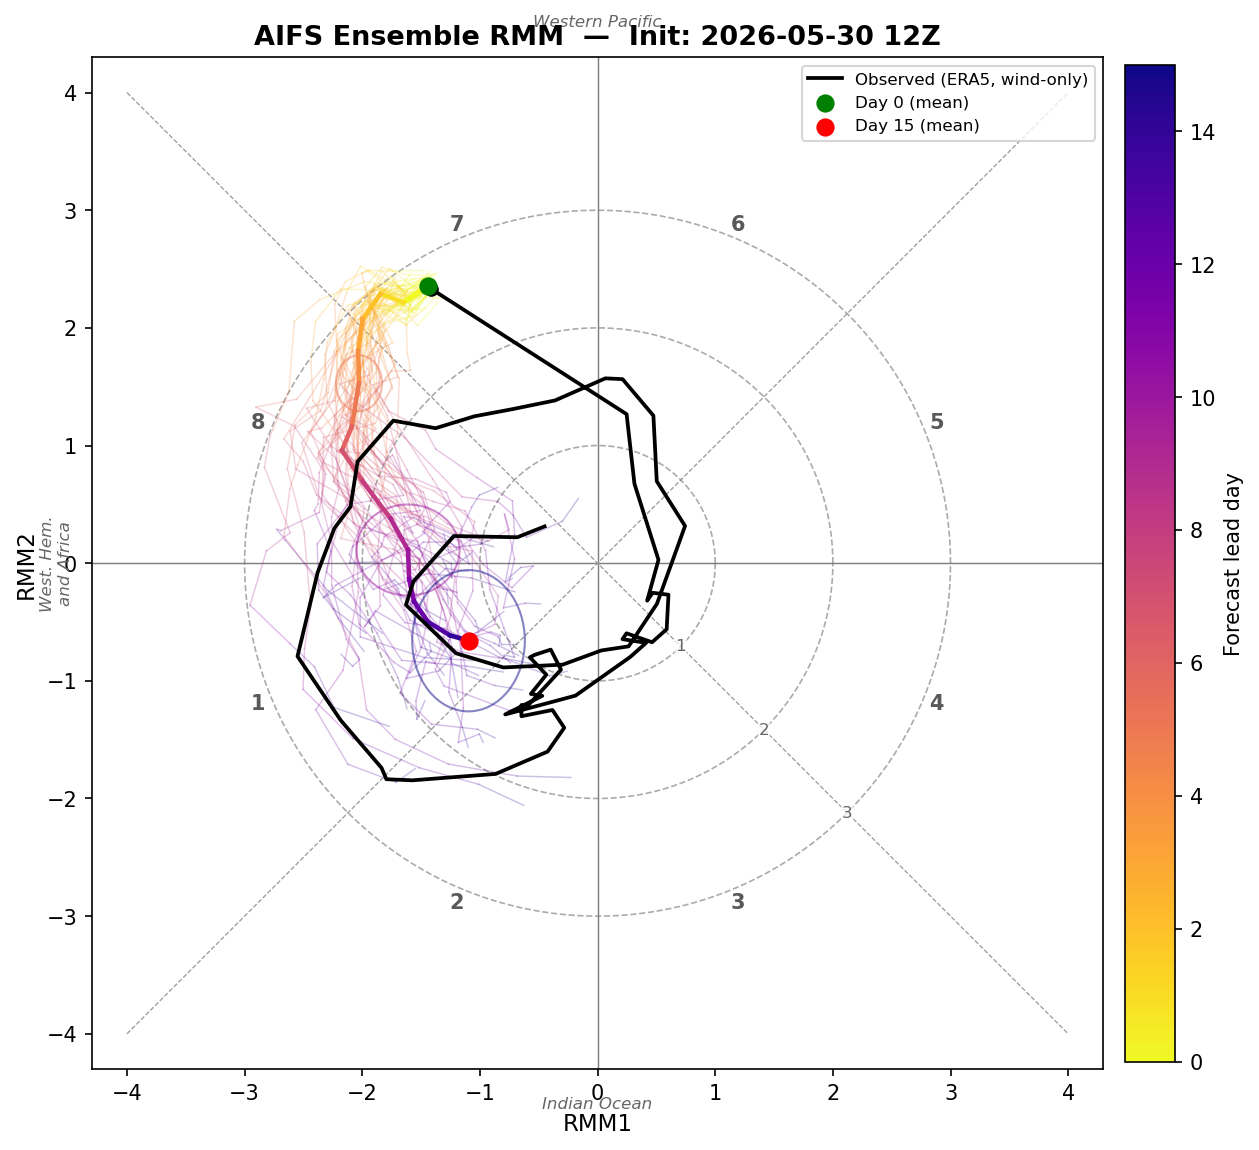
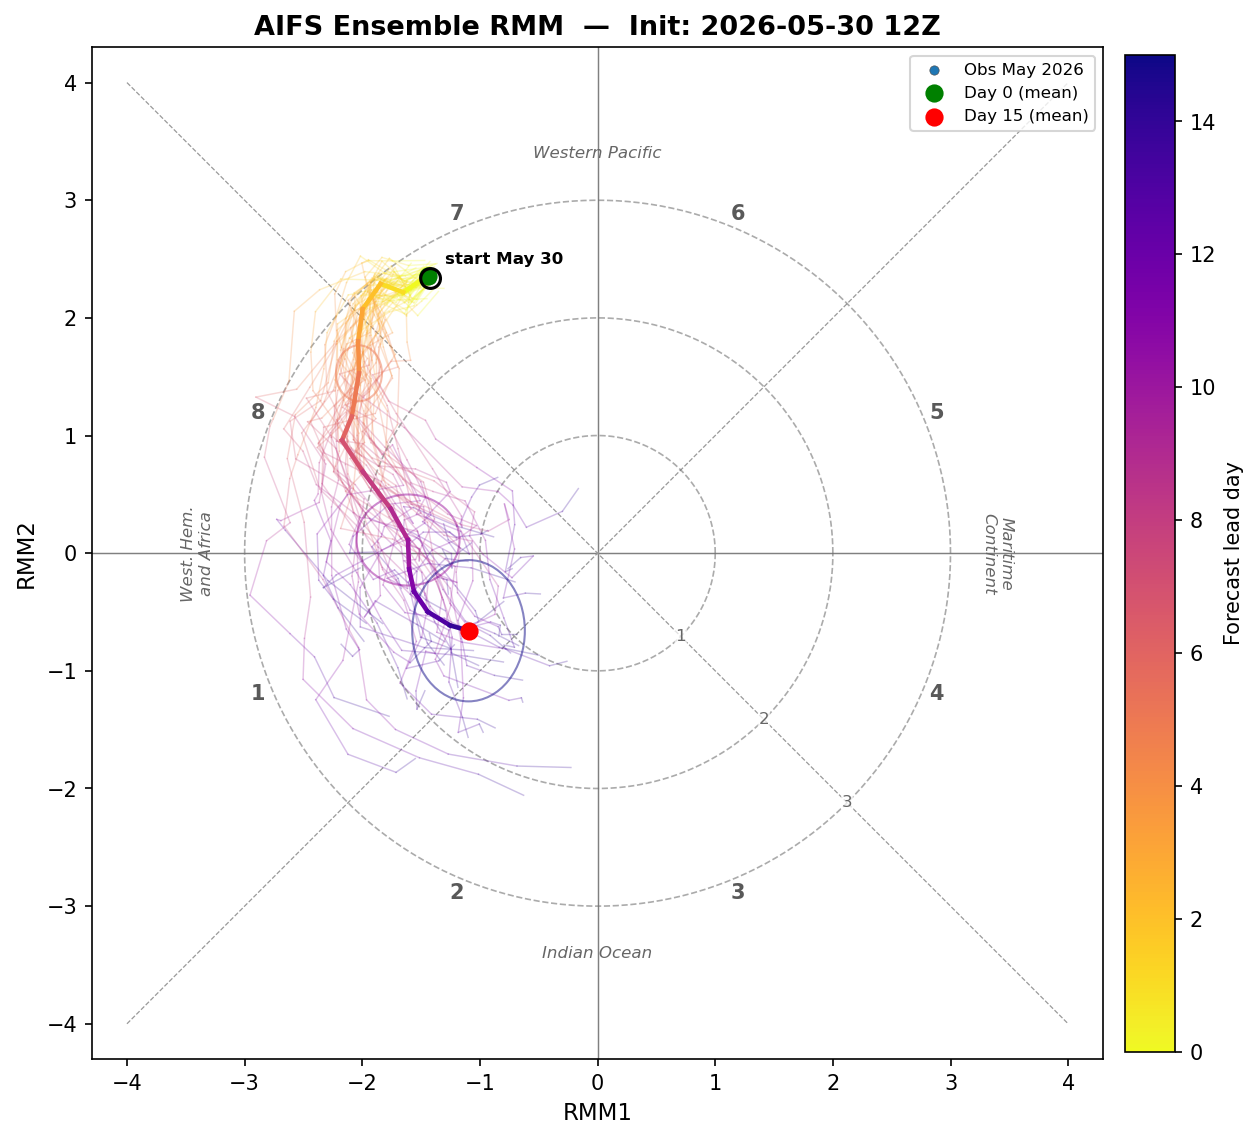
MJO: forward-only AIFS history, month-coloured track + start label, inset region labels

diff --git a/mjo.html b/mjo.html
@@ -75,7 +75,7 @@
   <figcaption>Latest init: <strong>2026-05-30 12Z</strong></figcaption>
 </figure>
   
-  <p class="meta">Updated 2026-05-31 19:21Z · Auto-generated from the AIFS-ENS open-data
+  <p class="meta">Updated 2026-05-31 19:34Z · Auto-generated from the AIFS-ENS open-data
   feed. Methodology: NOAA CPC / Wheeler &amp; Hendon (2004), EOFs from NOAA OLR +
   NCEP wind with the 120-day low-frequency filter removed.</p>
 </main>

diff --git a/scripts/mjo/src/plot.py b/scripts/mjo/src/plot.py
@@ -31,12 +31,13 @@ PHASE_ANGLES = {
 }
 
 # Region labels: (text, x, y, rotation)
-# Placed along the four edges of the diagram.
+# Placed inside the diagram near the axes (kept off the edge so they do not
+# collide with the RMM1/RMM2 axis labels).
 REGION_LABELS = [
-    ("West. Hem.\nand Africa",  -4.6,  0.0,  90),
-    ("Indian Ocean",             0.0, -4.6,   0),
-    ("Maritime\nContinent",      4.6,  0.0, -90),
-    ("Western Pacific",          0.0,  4.6,   0),
+    ("West. Hem.\nand Africa",  -3.4,  0.0,  90),
+    ("Indian Ocean",             0.0, -3.4,   0),
+    ("Maritime\nContinent",      3.4,  0.0, -90),
+    ("Western Pacific",          0.0,  3.4,   0),
 ]
 
 
@@ -95,23 +96,14 @@ def draw_phase_wheel(ax: plt.Axes, radius: float = 4.0,
 def plot_rmm(
     rmm: xr.Dataset,
     obs: xr.Dataset | None = None,
-    truth: xr.Dataset | None = None,
     out_path: Path | None = None,
 ) -> plt.Figure:
     date  = rmm.attrs.get("init_date", "")
     rtime = rmm.attrs.get("init_time", "00")
     init  = pd.Timestamp(f"{date}T{rtime}:00") if date else None
 
-    # Observed track day-offsets relative to init (negative → before init).
+    # Observed history (the growing AIFS-analysis 'truth' archive).
     has_obs = obs is not None and obs.sizes.get("time", 0) > 0
-    if has_obs:
-        obs_off = (pd.to_datetime(obs["time"].values) - init).days
-        obs_src = obs.attrs.get("source", "analysis")
-
-    # Archived AIFS-analysis 'truth' history (zero-lag, self-consistent).
-    has_truth = truth is not None and truth.sizes.get("time", 0) > 0
-    if has_truth:
-        truth_off = (pd.to_datetime(truth["time"].values) - init).days
 
     rmm1 = rmm["rmm1"].values   # (member, lead_day)
     rmm2 = rmm["rmm2"].values
@@ -158,18 +150,29 @@ def plot_rmm(
         )
         ax.add_patch(ell)
 
-    # Observed tail (NCEP wind-only analysis, leading into init)
+    # Observed history (AIFS analysis archive): faint connecting line, points
+    # coloured by calendar month, with the start date marked and labelled.
     if has_obs:
-        ax.plot(obs["rmm1"].values, obs["rmm2"].values,
-                "k-", lw=1.8, zorder=5, label=f"Observed ({obs_src}, wind-only)")
-        ax.plot(obs["rmm1"].values[-1], obs["rmm2"].values[-1],
-                "ko", ms=6, zorder=6)
+        o1 = obs["rmm1"].values
+        o2 = obs["rmm2"].values
+        ot = pd.to_datetime(obs["time"].values)
+        ax.plot(o1, o2, color="0.55", lw=1.0, alpha=0.7, zorder=5)
 
-    # AIFS-analysis archive ('truth') — accumulates one point per run
-    if has_truth:
-        ax.plot(truth["rmm1"].values, truth["rmm2"].values,
-                "-s", color="darkorange", ms=4, lw=1.2, zorder=6,
-                label="AIFS analysis (archive)")
+        months = ot.to_period("M")
+        uniq = list(dict.fromkeys(months))          # unique months, in order
+        mcmap = plt.get_cmap("tab10")
+        for k, mo in enumerate(uniq):
+            sel = months == mo
+            ax.scatter(o1[sel], o2[sel], s=20, zorder=6,
+                       color=mcmap(k % 10), edgecolor="0.3", linewidth=0.3,
+                       label=f"Obs {mo.strftime('%b %Y')}")
+
+        # Start-of-history indicator + date label
+        ax.scatter(o1[0], o2[0], s=90, facecolor="none", edgecolor="black",
+                   lw=1.5, zorder=8)
+        ax.annotate(f"start {ot[0].strftime('%b %d')}", (o1[0], o2[0]),
+                    textcoords="offset points", xytext=(7, 7),
+                    fontsize=8, fontweight="bold", color="black", zorder=8)
 
     # Mark day-0 and last day
     ax.scatter(mean_rmm1[0], mean_rmm2[0], c="green", s=60, zorder=7, label="Day 0 (mean)")

diff --git a/scripts/mjo/src/seed_recent.py b/scripts/mjo/src/seed_recent.py
@@ -1,17 +1,20 @@
 """
-LOCAL refresh of the CDS-free runtime inputs used by the daily GitHub Action:
+LOCAL refresh of the forecast 120-day filter map used by the daily GitHub Action:
 
   data/reference/wind_map120.nc   forecast 120-day filter map (from ERA5)
-  data/reference/obs_history.nc   observed RMM history, seeded from ERA5
 
 Run this locally whenever you want to refresh the slow-moving 120-day map (the
 ENSO/low-frequency signal changes slowly, so monthly is plenty).  It needs CDS
 for fresh ERA5 (or reuses cached files in data/reference/era5_recent/), so it
-stays OUT of CI — the daily Action only reads the committed .nc files.
+stays OUT of CI — the daily Action only reads the committed map.
 
     python src/seed_recent.py --date 20260530        # anchor date
 
-Then commit wind_map120.nc and obs_history.nc.
+Then commit wind_map120.nc.
+
+Note: the observed track is NOT seeded here — it is built purely going forward
+from each run's AIFS analysis (control day 0), archived by run_rmm.py into
+data/reference/obs_history.nc.
 """
 
 import argparse
@@ -23,7 +26,6 @@ import xarray as xr
 
 sys.path.insert(0, str(Path(__file__).parent))
 import recent_analysis
-import archive_truth
 
 
 def main() -> None:
@@ -36,13 +38,11 @@ def main() -> None:
     clim = xr.open_dataset("data/reference/climatology.nc")
     eofs = xr.open_dataset("data/reference/eofs.nc")
 
-    mean120, obs = recent_analysis.build(init, clim, eofs, source=args.source)
+    mean120, _obs = recent_analysis.build(init, clim, eofs, source=args.source)
     recent_analysis.save_map120(mean120)
-    archive_truth.seed(obs)
 
     print(f"wrote {recent_analysis.MAP120_PATH.name} "
-          f"({mean120['u850'].size}-lon map) and seeded "
-          f"{archive_truth.ARCHIVE.name} ({obs.sizes['time']} obs days)")
+          f"({mean120['u850'].size}-lon map)")
 
 
 if __name__ == "__main__":
